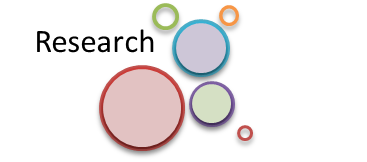
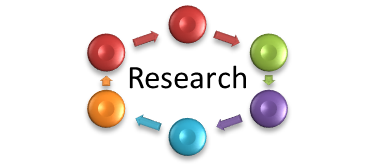
updated research graphic and page.

diff --git a/research.html b/research.html
@@ -67,7 +67,7 @@
       </header>
       <section>
     	<div class="welcome">
-          <a href="vision.html"><img src="images/flowchart.png" alt="flowchart pic"></a>
+          <a href="research.html"><img src="images/research-areas.png" alt="flowchart pic"></a>
         </div>
     	<div class="welcometext">
           <h4>Coming Soon</h4>
@@ -75,6 +75,11 @@
         <div class="sidebar">
           <!-- <h2>Learn More</h2> -->
           <ul>
+            <li>
+              <a href="./vision.html"><img src="images/vision.png" alt="vision pic"></a>
+              <a href="./software.html"><img src="images/software.png" alt="software pic"></a>
+              <a href="./videos.html"><img src="images/videos.png" alt="videos pic"></a>
+            </li>
             <li><a href="./news.html">News</a></li>
             <li><a href="./publications.html">Publications</a></li>
             <li><a href="mailto:dart@dart.org">Contact</a></li>
